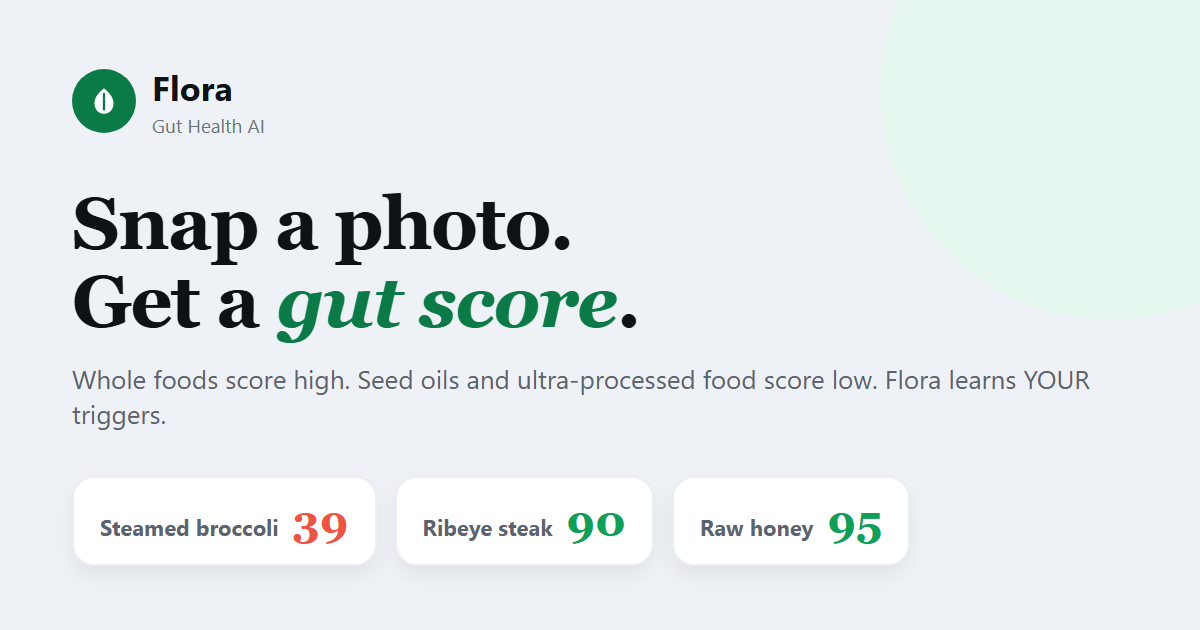
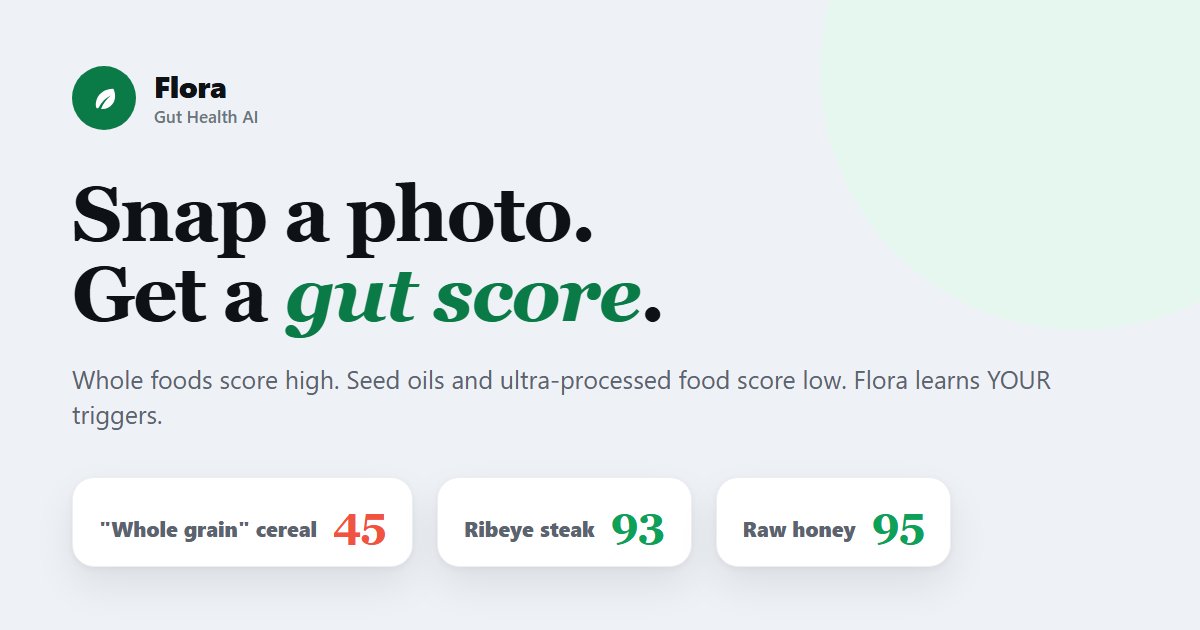
scores after the vegetable ruling: broccoli 68, the hook is now whole-grain cereal 45 vs ribeye 93; share image regenerated from its new source

diff --git a/methodology.html b/methodology.html
@@ -8,12 +8,12 @@
 <meta property="og:type" content="website">
 <meta property="og:site_name" content="Flora">
 <meta property="og:title" content="How Flora scores food — the receipts">
-<meta property="og:description" content="Steamed broccoli 39. Ribeye 93. Here's the model behind the scores — and all 100 of them, unedited.">
+<meta property="og:description" content="&quot;Whole grain&quot; cereal 45. Ribeye 93. Steamed broccoli 68. Here's the model behind the scores — and all 100 of them, unedited.">
 <meta property="og:url" content="https://chrisweaver23.github.io/flora-legal/methodology.html">
 <meta property="og:image" content="https://chrisweaver23.github.io/flora-legal/og.png">
 <meta property="og:image:width" content="1200">
 <meta property="og:image:height" content="630">
-<meta property="og:image:alt" content="Flora scores food 0 to 100: steamed broccoli 39, ribeye steak 93, raw honey 95.">
+<meta property="og:image:alt" content="Flora scores food 0 to 100: whole-grain cereal 45, ribeye steak 93, raw honey 95.">
 <meta name="twitter:card" content="summary_large_image">
 <meta name="twitter:title" content="How Flora scores food — the receipts">
 <meta name="twitter:description" content="The scoring model in plain language, plus all 100 scores from the real engine — including the ones that start arguments.">
@@ -27,6 +27,11 @@
   engine changes, regenerate the scorecard and update this table — NEVER edit
   a number here by hand. Product claims are lifted from the approved listing
   copy (launch/app-store-listing.md).
+  2026-09-15 (build 110): regenerated again after the vegetable ruling
+  (DECISIONS 2026-09-15) — steamed broccoli 39 → 68, kale salad 39 → 68, and
+  the four-foods pass (oatmeal 64, quinoa 62, popcorn 55, protein bar 54).
+  The hero pair became "whole grain" cereal 45 vs ribeye 93: broccoli is an
+  honest Moderate now, not a shock, and the page must never pretend otherwise.
   2026-09-15: table regenerated against the shipping engine (30 of 100 scores
   moved — ribeye 93, energy drink 23, beef liver 99: meal scores cap at 99, the
   century is water alone). Five rows print the engine's own explanation
@@ -141,7 +146,7 @@
   <header class="hero">
     <span class="eyebrow">The receipts · Full methodology</span>
     <h1>Your gut has a score. Here's exactly <em>how it's computed</em>.</h1>
-    <p class="sub">Some of Flora's scores will not be what you were told — steamed broccoli scores 39, ribeye scores 93. This page is the model in plain language, plus all 100 scores from our public scorecard, unedited. Argue with any of them; that's what the page is for.</p>
+    <p class="sub">Some of Flora's scores will not be what you were told — a "whole grain" breakfast cereal scores 45, ribeye scores 93, steamed broccoli 68. This page is the model in plain language, plus all 100 scores from our public scorecard, unedited. Argue with any of them; that's what the page is for.</p>
   </header>
 
   <section class="sect">
@@ -159,14 +164,14 @@
 
   <section class="sect">
     <h2>Where we break from mainstream ratings</h2>
-    <p class="lead">Most food scores grade calories, saturated fat, or plant-versus-animal morality — so they call steak a sin and wave broccoli through. Flora grades digestive reality. That inverts some famous verdicts:</p>
+    <p class="lead">Most food scores grade calories, saturated fat, or plant-versus-animal morality — so they call steak a sin and wave the cereal box through. Flora grades digestive reality. That inverts some famous verdicts:</p>
     <div class="vsboard">
       <div class="vs">
         <div class="fcard low">
-          <div class="emoji">🥦</div>
-          <div class="name">Steamed broccoli</div>
-          <div class="score">39</div>
-          <div class="why">High-FODMAP — cruciferous veg is a frequent source of gas and bloating.</div>
+          <div class="emoji">🌾</div>
+          <div class="name">"Whole grain" cereal</div>
+          <div class="score">45</div>
+          <div class="why">Refined grain extruded into shapes and sweetened — even the wholesome boxes run on processed flour with sugar near the top of the label.</div>
         </div>
         <div class="fcard high">
           <div class="emoji">🥩</div>
@@ -175,7 +180,7 @@
           <div class="why">Ruminant meat is the most bioavailable protein there is — nothing to ferment in your gut.</div>
         </div>
       </div>
-      <p class="foot">If broccoli never bothers you, great — log it, report how you feel, and your personal trigger map reflects that. The 39 is the starting point for a gut Flora hasn't met yet, not a verdict on yours.</p>
+      <p class="foot">And broccoli? An honest 68 — a real gut benefit with a real, dose-driven catch. If a food never bothers you, log it, report how you feel, and your personal trigger map reflects that. Every number here is the starting point for a gut Flora hasn't met yet, not a verdict on yours.</p>
     </div>
   </section>
 
@@ -185,88 +190,89 @@
     <p class="asof">Scores as of September 15, 2026 — regenerated from the engine that ships in the app today. When the engine changes, this table and this date change with it.</p>
     <div class="tablecard">
       <div class="thead"><span>Score</span><span>Food — the engine's own reason</span></div>
-
       <div class="bandhead t">Thriving</div>
       <div class="row"><b class="s t">99</b><div><span class="n">Beef liver</span><span class="w">Red meat: Ruminant meat is the most bioavailable protein there is — iron, zinc and B12 with nothing to ferment in your gut.</span></div></div>
       <div class="row"><b class="s t">95</b><div><span class="n">Raw honey</span><span class="w">Raw honey: Whole-food sweeteners like raw honey come with enzymes and minerals, not just sugar.</span></div></div>
       <div class="row"><b class="s t">93</b><div><span class="n">Ribeye steak</span><span class="w">Red meat: Ruminant meat is the most bioavailable protein there is — iron, zinc and B12 with nothing to ferment in your gut.</span></div></div>
       <div class="row"><b class="s t">90</b><div><span class="n">Acai smoothie bowl</span><span class="w">Whole fruit: Ripe fruit is clean, easily digested energy with polyphenols and minerals — nothing your body has to fight.</span></div></div>
-      <div class="row"><b class="s t">90</b><div><span class="n">Rice cakes</span><span class="w">White rice: White rice is a clean, low-irritant carbohydrate — one of the gentlest starches there is.</span></div></div>
-      <div class="row"><b class="s t">90</b><div><span class="n">Kombucha</span><span class="w">Fermented food: Live cultures support a diverse, resilient microbiome.</span></div></div>
-      <div class="row"><b class="s t">90</b><div><span class="n">Butter</span><span class="w">Traditional animal fats: Stable saturated fats (butter, tallow, ghee) carry vitamins and satisfy without irritating the gut.</span></div></div>
-      <div class="row"><b class="s t">90</b><div><span class="n">Lamb chops</span><span class="w">Red meat: Ruminant meat is the most bioavailable protein there is — iron, zinc and B12 with nothing to ferment in your gut.</span></div></div>
-      <div class="row"><b class="s t">90</b><div><span class="n">Ground beef</span><span class="w">Red meat: Ruminant meat is the most bioavailable protein there is — iron, zinc and B12 with nothing to ferment in your gut.</span></div></div>
-      <div class="row"><b class="s t">90</b><div><span class="n">Pork chop</span><span class="w">Whole pork &amp; game: Unprocessed whole-muscle meat — complete protein with nothing added to ferment.</span></div></div>
-      <div class="row"><b class="s t">90</b><div><span class="n">Watermelon</span><span class="w">Whole fruit: Ripe fruit is clean, easily digested energy with polyphenols and minerals — nothing your body has to fight.</span></div></div>
-      <div class="row"><b class="s t">90</b><div><span class="n">Mango</span><span class="w">Whole fruit: Ripe fruit is clean, easily digested energy with polyphenols and minerals — nothing your body has to fight.</span></div></div>
-      <div class="row"><b class="s t">90</b><div><span class="n">Full-fat greek yogurt</span><span class="w">Whole / raw dairy: Whole and fermented dairy bring probiotics, calcium and fat-soluble vitamins.</span></div></div>
-      <div class="row"><b class="s t">90</b><div><span class="n">Banana</span><span class="w">Whole fruit: Ripe fruit is clean, easily digested energy with polyphenols and minerals — nothing your body has to fight.</span></div></div>
       <div class="row"><b class="s t">90</b><div><span class="n">Apple</span><span class="w">Whole fruit: Ripe fruit is clean, easily digested energy with polyphenols and minerals — nothing your body has to fight.</span></div></div>
-      <div class="row"><b class="s t">90</b><div><span class="n">Blueberries</span><span class="w">Whole fruit: Ripe fruit is clean, easily digested energy with polyphenols and minerals — nothing your body has to fight.</span></div></div>
-      <div class="row"><b class="s t">90</b><div><span class="n">Strawberries</span><span class="w">Whole fruit: Ripe fruit is clean, easily digested energy with polyphenols and minerals — nothing your body has to fight.</span></div></div>
-      <div class="row"><b class="s t">90</b><div><span class="n">Grapes</span><span class="w">Whole fruit: Ripe fruit is clean, easily digested energy with polyphenols and minerals — nothing your body has to fight.</span></div></div>
-      <div class="row"><b class="s t">90</b><div><span class="n">Pineapple</span><span class="w">Whole fruit: Ripe fruit is clean, easily digested energy with polyphenols and minerals — nothing your body has to fight.</span></div></div>
-      <div class="row"><b class="s t">90</b><div><span class="n">Orange</span><span class="w">Whole fruit: Ripe fruit is clean, easily digested energy with polyphenols and minerals — nothing your body has to fight.</span></div></div>
       <div class="row"><b class="s t">90</b><div><span class="n">Avocado</span><span class="w">Whole fruit: Ripe fruit is clean, easily digested energy with polyphenols and minerals — nothing your body has to fight.</span></div></div>
-      <div class="row"><b class="s t">90</b><div><span class="n">Grilled chicken breast</span><span class="w">Poultry: Lean, gut-gentle animal protein.</span></div></div>
-      <div class="row"><b class="s t">90</b><div><span class="n">Rotisserie chicken</span><span class="w">Poultry: Lean, gut-gentle animal protein.</span></div></div>
-      <div class="row"><b class="s t">90</b><div><span class="n">Grilled salmon</span><span class="w">Wild fish &amp; seafood: Omega-3s from fish actively lower inflammation, and seafood protein is gut-gentle.</span></div></div>
-      <div class="row"><b class="s t">90</b><div><span class="n">Sardines</span><span class="w">Wild fish &amp; seafood: Omega-3s from fish actively lower inflammation, and seafood protein is gut-gentle.</span></div></div>
+      <div class="row"><b class="s t">90</b><div><span class="n">Baked potato</span><span class="w">Root vegetables: Roots are gentle, well-tolerated carbohydrates — fuel without the gas.</span></div></div>
+      <div class="row"><b class="s t">90</b><div><span class="n">Banana</span><span class="w">Whole fruit: Ripe fruit is clean, easily digested energy with polyphenols and minerals — nothing your body has to fight.</span></div></div>
+      <div class="row"><b class="s t">90</b><div><span class="n">Blueberries</span><span class="w">Whole fruit: Ripe fruit is clean, easily digested energy with polyphenols and minerals — nothing your body has to fight.</span></div></div>
+      <div class="row"><b class="s t">90</b><div><span class="n">Butter</span><span class="w">Traditional animal fats: Stable saturated fats (butter, tallow, ghee) carry vitamins and satisfy without irritating the gut.</span></div></div>
       <div class="row"><b class="s t">90</b><div><span class="n">Canned tuna</span><span class="w">Wild fish &amp; seafood: Omega-3s from fish actively lower inflammation, and seafood protein is gut-gentle.</span></div></div>
-      <div class="row"><b class="s t">90</b><div><span class="n">Shrimp</span><span class="w">Wild fish &amp; seafood: Omega-3s from fish actively lower inflammation, and seafood protein is gut-gentle.</span></div></div>
-      <div class="row"><b class="s t">90</b><div><span class="n">Scrambled eggs</span><span class="w">Eggs: Whole eggs are a complete, easily digested protein with choline and fat-soluble vitamins.</span></div></div>
-      <div class="row"><b class="s t">90</b><div><span class="n">Hard boiled eggs</span><span class="w">Eggs: Whole eggs are a complete, easily digested protein with choline and fat-soluble vitamins.</span></div></div>
-      <div class="row"><b class="s t">90</b><div><span class="n">Kefir</span><span class="w">Whole / raw dairy: Whole and fermented dairy bring probiotics, calcium and fat-soluble vitamins.</span></div></div>
-      <div class="row"><b class="s t">90</b><div><span class="n">Sauerkraut</span><span class="w">Fermented food: Live cultures support a diverse, resilient microbiome.</span></div></div>
-      <div class="row"><b class="s t">90</b><div><span class="n">Kimchi</span><span class="w">Fermented food: Live cultures support a diverse, resilient microbiome.</span></div></div>
+      <div class="row"><b class="s t">90</b><div><span class="n">Cantaloupe</span><span class="w">Whole fruit: Ripe fruit is clean, easily digested energy with polyphenols and minerals — nothing your body has to fight.</span></div></div>
+      <div class="row"><b class="s t">90</b><div><span class="n">Carrots</span><span class="w">Root vegetables: Roots are gentle, well-tolerated carbohydrates — fuel without the gas.</span></div></div>
       <div class="row"><b class="s t">90</b><div><span class="n">Cheddar cheese</span><span class="w">Whole / raw dairy: Whole and fermented dairy bring probiotics, calcium and fat-soluble vitamins.</span></div></div>
       <div class="row"><b class="s t">90</b><div><span class="n">Cottage cheese</span><span class="w">Whole / raw dairy: Whole and fermented dairy bring probiotics, calcium and fat-soluble vitamins.</span></div></div>
-      <div class="row"><b class="s t">90</b><div><span class="n">Spinach salad with olive oil</span><span class="w">Whole-food fats: Olive oil, avocado and coconut are anti-inflammatory fats your body uses cleanly.</span></div></div>
-      <div class="row"><b class="s t">90</b><div><span class="n">Carrots</span><span class="w">Root vegetables: Roots are gentle, well-tolerated carbohydrates — fuel without the gas.</span></div></div>
-      <div class="row"><b class="s t">90</b><div><span class="n">Sweet potato</span><span class="w">Root vegetables: Roots are gentle, well-tolerated carbohydrates — fuel without the gas.</span></div></div>
-      <div class="row"><b class="s t">90</b><div><span class="n">Baked potato</span><span class="w">Root vegetables: Roots are gentle, well-tolerated carbohydrates — fuel without the gas.</span></div></div>
+      <div class="row"><b class="s t">90</b><div><span class="n">Full-fat greek yogurt</span><span class="w">Whole / raw dairy: Whole and fermented dairy bring probiotics, calcium and fat-soluble vitamins.</span></div></div>
+      <div class="row"><b class="s t">90</b><div><span class="n">Grapes</span><span class="w">Whole fruit: Ripe fruit is clean, easily digested energy with polyphenols and minerals — nothing your body has to fight.</span></div></div>
+      <div class="row"><b class="s t">90</b><div><span class="n">Grilled chicken breast</span><span class="w">Poultry: Lean, gut-gentle animal protein.</span></div></div>
+      <div class="row"><b class="s t">90</b><div><span class="n">Grilled salmon</span><span class="w">Wild fish &amp; seafood: Omega-3s from fish actively lower inflammation, and seafood protein is gut-gentle.</span></div></div>
+      <div class="row"><b class="s t">90</b><div><span class="n">Ground beef</span><span class="w">Red meat: Ruminant meat is the most bioavailable protein there is — iron, zinc and B12 with nothing to ferment in your gut.</span></div></div>
       <div class="row"><b class="s t">90</b><div><span class="n">Guacamole</span><span class="w">Whole-food fats: Olive oil, avocado and coconut are anti-inflammatory fats your body uses cleanly.</span></div></div>
+      <div class="row"><b class="s t">90</b><div><span class="n">Hard boiled eggs</span><span class="w">Eggs: Whole eggs are a complete, easily digested protein with choline and fat-soluble vitamins.</span></div></div>
+      <div class="row"><b class="s t">90</b><div><span class="n">Kefir</span><span class="w">Whole / raw dairy: Whole and fermented dairy bring probiotics, calcium and fat-soluble vitamins.</span></div></div>
+      <div class="row"><b class="s t">90</b><div><span class="n">Kimchi</span><span class="w">Fermented food: Live cultures support a diverse, resilient microbiome.</span></div></div>
+      <div class="row"><b class="s t">90</b><div><span class="n">Kombucha</span><span class="w">Fermented food: Live cultures support a diverse, resilient microbiome.</span></div></div>
+      <div class="row"><b class="s t">90</b><div><span class="n">Lamb chops</span><span class="w">Red meat: Ruminant meat is the most bioavailable protein there is — iron, zinc and B12 with nothing to ferment in your gut.</span></div></div>
+      <div class="row"><b class="s t">90</b><div><span class="n">Mango</span><span class="w">Whole fruit: Ripe fruit is clean, easily digested energy with polyphenols and minerals — nothing your body has to fight.</span></div></div>
+      <div class="row"><b class="s t">90</b><div><span class="n">Orange</span><span class="w">Whole fruit: Ripe fruit is clean, easily digested energy with polyphenols and minerals — nothing your body has to fight.</span></div></div>
+      <div class="row"><b class="s t">90</b><div><span class="n">Pineapple</span><span class="w">Whole fruit: Ripe fruit is clean, easily digested energy with polyphenols and minerals — nothing your body has to fight.</span></div></div>
+      <div class="row"><b class="s t">90</b><div><span class="n">Pork chop</span><span class="w">Whole pork &amp; game: Unprocessed whole-muscle meat — complete protein with nothing added to ferment.</span></div></div>
+      <div class="row"><b class="s t">90</b><div><span class="n">Rice cakes</span><span class="w">White rice: White rice is a clean, low-irritant carbohydrate — one of the gentlest starches there is.</span></div></div>
+      <div class="row"><b class="s t">90</b><div><span class="n">Rotisserie chicken</span><span class="w">Poultry: Lean, gut-gentle animal protein.</span></div></div>
+      <div class="row"><b class="s t">90</b><div><span class="n">Sardines</span><span class="w">Wild fish &amp; seafood: Omega-3s from fish actively lower inflammation, and seafood protein is gut-gentle.</span></div></div>
+      <div class="row"><b class="s t">90</b><div><span class="n">Sauerkraut</span><span class="w">Fermented food: Live cultures support a diverse, resilient microbiome.</span></div></div>
+      <div class="row"><b class="s t">90</b><div><span class="n">Scrambled eggs</span><span class="w">Eggs: Whole eggs are a complete, easily digested protein with choline and fat-soluble vitamins.</span></div></div>
+      <div class="row"><b class="s t">90</b><div><span class="n">Shrimp</span><span class="w">Wild fish &amp; seafood: Omega-3s from fish actively lower inflammation, and seafood protein is gut-gentle.</span></div></div>
+      <div class="row"><b class="s t">90</b><div><span class="n">Spinach salad with olive oil</span><span class="w">Whole-food fats: Olive oil, avocado and coconut are anti-inflammatory fats your body uses cleanly.</span></div></div>
+      <div class="row"><b class="s t">90</b><div><span class="n">Strawberries</span><span class="w">Whole fruit: Ripe fruit is clean, easily digested energy with polyphenols and minerals — nothing your body has to fight.</span></div></div>
+      <div class="row"><b class="s t">90</b><div><span class="n">Sweet potato</span><span class="w">Root vegetables: Roots are gentle, well-tolerated carbohydrates — fuel without the gas.</span></div></div>
+      <div class="row"><b class="s t">90</b><div><span class="n">Watermelon</span><span class="w">Whole fruit: Ripe fruit is clean, easily digested energy with polyphenols and minerals — nothing your body has to fight.</span></div></div>
       <div class="row"><b class="s t">90</b><div><span class="n">White rice</span><span class="w">White rice: White rice is a clean, low-irritant carbohydrate — one of the gentlest starches there is.</span></div></div>
-      <div class="row"><b class="s t">90</b><div><span class="n">Cantaloupe</span><span class="w">Whole fruit: Ripe fruit is clean, easily digested energy with polyphenols and minerals — nothing your body has to fight.</span></div></div>
 
       <div class="bandhead so">Solid</div>
       <div class="row"><b class="s so">88</b><div><span class="n">Coconut water</span><span class="w">Coconut water: Nature’s electrolyte drink — potassium-rich, clean hydration.</span></div></div>
       <div class="row"><b class="s so">85</b><div><span class="n">Green tea</span><span class="w">Tea: Brewed tea — polyphenols and gentle, warm hydration with next to nothing for the gut to fight.</span></div></div>
       <div class="row"><b class="s so">80</b><div><span class="n">Orange juice</span><span class="w">Fresh juice: Squeezed fruit — clean, recognizable energy; only the whole fruit’s fiber is missing.</span></div></div>
       <div class="row"><b class="s so">77</b><div><span class="n">Whole milk</span><span class="w">Milk: Whole milk carries protein and fat-soluble vitamins — fine unless lactose bothers you.</span></div></div>
-      <div class="row"><b class="s so">76</b><div><span class="n">Peanut butter</span><span class="w">Nuts: Nuts are real food — minerals and stable fats — just dense, so portions matter.</span></div></div>
       <div class="row"><b class="s so">76</b><div><span class="n">Almonds</span><span class="w">Nuts: Nuts are real food — minerals and stable fats — just dense, so portions matter.</span></div></div>
+      <div class="row"><b class="s so">76</b><div><span class="n">Peanut butter</span><span class="w">Nuts: Nuts are real food — minerals and stable fats — just dense, so portions matter.</span></div></div>
       <div class="row"><b class="s so">76</b><div><span class="n">Walnuts</span><span class="w">Nuts: Nuts are real food — minerals and stable fats — just dense, so portions matter.</span></div></div>
       <div class="row"><b class="s so">72</b><div><span class="n">Black coffee</span><span class="w">Coffee: Black coffee brings polyphenols and a gentle nudge to gut motility. Its acid can bother a sensitive stomach, so it sits well under tea and cold brew.</span></div></div>
 
       <div class="bandhead m">Moderate</div>
+      <div class="row"><b class="s m">68</b><div><span class="n">Kale salad</span><span class="w">Fermentable vegetable: Fermentable vegetable — fine for most guts, a bloater for sensitive ones at big servings. Cooked beats raw.</span></div></div>
+      <div class="row"><b class="s m">68</b><div><span class="n">Steamed broccoli</span><span class="w">Fermentable vegetable: Fermentable vegetable — fine for most guts, a bloater for sensitive ones at big servings. Cooked beats raw.</span></div></div>
+      <div class="row"><b class="s m">64</b><div><span class="n">Plain oatmeal</span><span class="w">Whole oats: Oats are a whole grain — slower than refined flour, but a bowl of them is still a starch load. Fine in moderation, better with a protein or fruit beside it.</span></div></div>
       <div class="row"><b class="s m">62</b><div><span class="n">California sushi roll</span><span class="w">Refined sugar: 6g of sugar with a sweetener on the label. Sugar like this feeds dysbiotic bacteria and spikes inflammation.</span></div></div>
+      <div class="row"><b class="s m">62</b><div><span class="n">Quinoa</span><span class="w">Pseudo-grain: Quinoa is a seed cooked like a grain — gentler than wheat, still a dense seed carb that lands as starch. Better beside a protein than standing in for one.</span></div></div>
       <div class="row"><b class="s m">61</b><div><span class="n">Beef jerky</span><span class="w">Processed meat: Cured and processed meats carry nitrates and additives that are harder on the gut than fresh meat.</span></div></div>
       <div class="row"><b class="s m">57</b><div><span class="n">Bacon and eggs</span><span class="w">Processed meat: Cured and processed meats carry nitrates and additives that are harder on the gut than fresh meat.</span></div></div>
       <div class="row"><b class="s m">57</b><div><span class="n">Fish and chips</span><span class="w">Deep-fried: Deep-fried in seed oils — inflammatory and heavy on the gut.</span></div></div>
       <div class="row"><b class="s m">55</b><div><span class="n">Blueberry muffin</span><span class="w">Refined grains: Refined, gluten-heavy grains are low in nutrition and a common bloating culprit.</span></div></div>
       <div class="row"><b class="s m">55</b><div><span class="n">Carnitas tacos</span><span class="w">Refined grains: A taco, burrito, wrap or quesadilla rides on a refined-flour tortilla unless you order it without.</span></div></div>
-      <div class="row"><b class="s m">52</b><div><span class="n">Sourdough toast</span><span class="w">A middle-of-the-road snack. The fermented food is what keeps it this high, but big starch load holds it back. A whole food swap would lift it: fruit, yogurt or a few slices of real meat.</span></div></div>
+      <div class="row"><b class="s m">55</b><div><span class="n">Popcorn</span><span class="w">Popcorn: Plain popcorn is a whole grain puffed in air — light and unrefined, still a starch snack. What it is popped in and dusted with decides the rest.</span></div></div>
+      <div class="row"><b class="s m">54</b><div><span class="n">Protein bar</span><span class="w">Protein bar: A protein bar is candy-bar construction — protein isolate, sweeteners and binders in a wrapper. The protein is real, so it edges above neutral; the sweetener line on the label decides the rest.</span></div></div>
       <div class="row"><b class="s m">52</b><div><span class="n">Mac and cheese</span><span class="w">Refined grains: Refined, gluten-heavy grains are low in nutrition and a common bloating culprit.</span></div></div>
-      <div class="row"><b class="s m">51</b><div><span class="n">Oat milk latte</span><span class="w">Plant milk: Oat, soy and rice milks are a processed product: water, starch, added oil and sugars. Real milk or a splash of cream reads cleaner.</span></div></div>
+      <div class="row"><b class="s m">52</b><div><span class="n">Sourdough toast</span><span class="w">Big starch load: Sourdough is a long-fermented wheat loaf — gentler on the gut than plain white bread, but still a slice of starch that lands fast.</span></div></div>
       <div class="row"><b class="s m">51</b><div><span class="n">Deli turkey sandwich</span><span class="w">Refined grains: A burger or sandwich rides on a refined-flour bun unless you order it without.</span></div></div>
       <div class="row"><b class="s m">51</b><div><span class="n">Fried chicken</span><span class="w">Deep-fried: Deep-fried in seed oils — inflammatory and heavy on the gut.</span></div></div>
-      <div class="row"><b class="s m">50</b><div><span class="n">Protein bar</span><span class="w">Flora doesn't know this one yet. Nothing in Flora's food knowledge matches these words, so the number is a neutral placeholder, not a verdict.</span></div></div>
-      <div class="row"><b class="s m">50</b><div><span class="n">Quinoa</span><span class="w">Flora doesn't know this one yet. Nothing in Flora's food knowledge matches these words, so the number is a neutral placeholder, not a verdict.</span></div></div>
-      <div class="row"><b class="s m">50</b><div><span class="n">Plain oatmeal</span><span class="w">Flora doesn't know this one yet. Nothing in Flora's food knowledge matches these words, so the number is a neutral placeholder, not a verdict.</span></div></div>
-      <div class="row"><b class="s m">50</b><div><span class="n">Popcorn</span><span class="w">Flora doesn't know this one yet. Nothing in Flora's food knowledge matches these words, so the number is a neutral placeholder, not a verdict.</span></div></div>
+      <div class="row"><b class="s m">51</b><div><span class="n">Oat milk latte</span><span class="w">Plant milk: Oat, soy and rice milks are a processed product: water, starch, added oil and sugars. Real milk or a splash of cream reads cleaner.</span></div></div>
 
       <div class="bandhead p">Poor</div>
-      <div class="row"><b class="s p">48</b><div><span class="n">Pasta with marinara</span><span class="w">Refined grains: Refined, gluten-heavy grains are low in nutrition and a common bloating culprit.</span></div></div>
       <div class="row"><b class="s p">48</b><div><span class="n">Cheeseburger</span><span class="w">Refined grains: A burger or sandwich rides on a refined-flour bun unless you order it without.</span></div></div>
+      <div class="row"><b class="s p">48</b><div><span class="n">Pasta with marinara</span><span class="w">Refined grains: Refined, gluten-heavy grains are low in nutrition and a common bloating culprit.</span></div></div>
       <div class="row"><b class="s p">46</b><div><span class="n">Hot dog</span><span class="w">Processed meat: Cured and processed meats carry nitrates and additives that are harder on the gut than fresh meat.</span></div></div>
-      <div class="row"><b class="s p">45</b><div><span class="n">Whole grain breakfast cereal</span><span class="w">Refined grains: Refined, gluten-heavy grains are low in nutrition and a common bloating culprit.</span></div></div>
-      <div class="row"><b class="s p">45</b><div><span class="n">Veggie burger</span><span class="w">Refined grains: A burger or sandwich rides on a refined-flour bun unless you order it without.</span></div></div>
-      <div class="row"><b class="s p">45</b><div><span class="n">Chicken nuggets</span><span class="w">Deep-fried: Deep-fried in seed oils — inflammatory and heavy on the gut.</span></div></div>
-      <div class="row"><b class="s p">45</b><div><span class="n">White bread</span><span class="w">Refined grains: Refined, gluten-heavy grains are low in nutrition and a common bloating culprit.</span></div></div>
       <div class="row"><b class="s p">45</b><div><span class="n">Bagel with cream cheese</span><span class="w">Refined grains: Refined, gluten-heavy grains are low in nutrition and a common bloating culprit.</span></div></div>
       <div class="row"><b class="s p">45</b><div><span class="n">Beer</span><span class="w">Alcohol: Alcohol irritates the gut lining and feeds inflammation.</span></div></div>
+      <div class="row"><b class="s p">45</b><div><span class="n">Chicken nuggets</span><span class="w">Deep-fried: Deep-fried in seed oils — inflammatory and heavy on the gut.</span></div></div>
       <div class="row"><b class="s p">45</b><div><span class="n">Red wine</span><span class="w">Alcohol: Alcohol irritates the gut lining and feeds inflammation.</span></div></div>
+      <div class="row"><b class="s p">45</b><div><span class="n">Veggie burger</span><span class="w">Refined grains: A burger or sandwich rides on a refined-flour bun unless you order it without.</span></div></div>
+      <div class="row"><b class="s p">45</b><div><span class="n">White bread</span><span class="w">Refined grains: Refined, gluten-heavy grains are low in nutrition and a common bloating culprit.</span></div></div>
+      <div class="row"><b class="s p">45</b><div><span class="n">Whole grain breakfast cereal</span><span class="w">Refined grains: Refined, gluten-heavy grains are low in nutrition and a common bloating culprit.</span></div></div>
       <div class="row"><b class="s p">44</b><div><span class="n">Almond milk</span><span class="w">Plant milk: Oat, soy and rice milks are a processed product: water, starch, added oil and sugars. Real milk or a splash of cream reads cleaner.</span></div></div>
       <div class="row"><b class="s p">44</b><div><span class="n">Milkshake</span><span class="w">Refined sugar: 72g of sugar with a sweetener on the label. Sugar like this feeds dysbiotic bacteria and spikes inflammation.</span></div></div>
       <div class="row"><b class="s p">44</b><div><span class="n">Pepperoni pizza</span><span class="w">Refined grains: Refined, gluten-heavy grains are low in nutrition and a common bloating culprit.</span></div></div>
@@ -275,24 +281,22 @@
       <div class="row"><b class="s p">43</b><div><span class="n">Glazed donut</span><span class="w">Refined sugar: 12g of sugar with a sweetener on the label. Sugar like this feeds dysbiotic bacteria and spikes inflammation.</span></div></div>
       <div class="row"><b class="s p">41</b><div><span class="n">Pancakes with maple syrup</span><span class="w">Refined grains: Refined, gluten-heavy grains are low in nutrition and a common bloating culprit.</span></div></div>
       <div class="row"><b class="s p">40</b><div><span class="n">Instant flavored oatmeal</span><span class="w">Ultra-processed: Industrial ingredients your gut isn't built to recognize — they disrupt the gut lining and microbiome.</span></div></div>
-      <div class="row"><b class="s p">39</b><div><span class="n">Steamed broccoli</span><span class="w">Gassy plants: Broccoli, cabbage, beans and soy ferment fast in the gut. They are a common source of gas and bloating.</span></div></div>
-      <div class="row"><b class="s p">39</b><div><span class="n">Kale salad</span><span class="w">Gassy plants: Broccoli, cabbage, beans and soy ferment fast in the gut. They are a common source of gas and bloating.</span></div></div>
-      <div class="row"><b class="s p">39</b><div><span class="n">Hummus</span><span class="w">Gassy plants: Broccoli, cabbage, beans and soy ferment fast in the gut. They are a common source of gas and bloating.</span></div></div>
-      <div class="row"><b class="s p">39</b><div><span class="n">Lentil soup</span><span class="w">Gassy plants: Broccoli, cabbage, beans and soy ferment fast in the gut. They are a common source of gas and bloating.</span></div></div>
-      <div class="row"><b class="s p">39</b><div><span class="n">Black beans</span><span class="w">Gassy plants: Broccoli, cabbage, beans and soy ferment fast in the gut. They are a common source of gas and bloating.</span></div></div>
-      <div class="row"><b class="s p">39</b><div><span class="n">Tofu</span><span class="w">Gassy plants: Broccoli, cabbage, beans and soy ferment fast in the gut. They are a common source of gas and bloating.</span></div></div>
-      <div class="row"><b class="s p">39</b><div><span class="n">McDonalds Big Mac</span><span class="w">Fast food: Built from refined grains, seed oils and additives — engineered for craving, not digestion.</span></div></div>
+      <div class="row"><b class="s p">39</b><div><span class="n">Black beans</span><span class="w">Gassy plants: Beans, lentils and soy ferment fast in the gut. They are a common source of gas and bloating.</span></div></div>
       <div class="row"><b class="s p">39</b><div><span class="n">Chocolate chip cookies</span><span class="w">Refined sugar: 28g of sugar with a sweetener on the label. Sugar like this feeds dysbiotic bacteria and spikes inflammation.</span></div></div>
+      <div class="row"><b class="s p">39</b><div><span class="n">Hummus</span><span class="w">Gassy plants: Beans, lentils and soy ferment fast in the gut. They are a common source of gas and bloating.</span></div></div>
+      <div class="row"><b class="s p">39</b><div><span class="n">Lentil soup</span><span class="w">Gassy plants: Beans, lentils and soy ferment fast in the gut. They are a common source of gas and bloating.</span></div></div>
+      <div class="row"><b class="s p">39</b><div><span class="n">McDonalds Big Mac</span><span class="w">Fast food: Built from refined grains, seed oils and additives — engineered for craving, not digestion.</span></div></div>
+      <div class="row"><b class="s p">39</b><div><span class="n">Tofu</span><span class="w">Gassy plants: Beans, lentils and soy ferment fast in the gut. They are a common source of gas and bloating.</span></div></div>
       <div class="row"><b class="s p">36</b><div><span class="n">Tortilla chips</span><span class="w">Deep-fried: Deep-fried in seed oils — inflammatory and heavy on the gut.</span></div></div>
-      <div class="row"><b class="s p">35</b><div><span class="n">Salad with fat-free dressing</span><span class="w">Processed form: The fat stripped out — the part that carried the vitamins and the satiety.</span></div></div>
-      <div class="row"><b class="s p">35</b><div><span class="n">Instant ramen</span><span class="w">Ultra-processed: Industrial ingredients your gut isn't built to recognize — they disrupt the gut lining and microbiome.</span></div></div>
       <div class="row"><b class="s p">35</b><div><span class="n">Cola</span><span class="w">Refined sugar: 39g of sugar with a sweetener on the label. Sugar like this feeds dysbiotic bacteria and spikes inflammation.</span></div></div>
+      <div class="row"><b class="s p">35</b><div><span class="n">Instant ramen</span><span class="w">Ultra-processed: Industrial ingredients your gut isn't built to recognize — they disrupt the gut lining and microbiome.</span></div></div>
+      <div class="row"><b class="s p">35</b><div><span class="n">Salad with fat-free dressing</span><span class="w">Processed form: The fat stripped out — the part that carried the vitamins and the satiety.</span></div></div>
       <div class="row"><b class="s p">32</b><div><span class="n">McDonalds french fries</span><span class="w">Fast food: Built from refined grains, seed oils and additives — engineered for craving, not digestion.</span></div></div>
       <div class="row"><b class="s p">31</b><div><span class="n">Margarine on toast</span><span class="w">Industrial seed oils: Seed oils are oxidation-prone, ultra-refined fats that drive inflammation — the single worst thing for your gut.</span></div></div>
       <div class="row"><b class="s p">23</b><div><span class="n">Energy drink</span><span class="w">Energy drink: An engineered stimulant drink — caffeine, acids and additives, with nothing food-like for a gut to work with.</span></div></div>
       <div class="row"><b class="s p">22</b><div><span class="n">Potato chips</span><span class="w">One food, one verdict: Deep-fried in seed oils — the card's verdict is the meal's score.</span></div></div>
-      <div class="row"><b class="s p">18</b><div><span class="n">Ice cream</span><span class="w">One food, one verdict: Refined sugar — the card's verdict is the meal's score.</span></div></div>
       <div class="row"><b class="s p">18</b><div><span class="n">Gummy bears</span><span class="w">One food, one verdict: Refined sugar — the card's verdict is the meal's score.</span></div></div>
+      <div class="row"><b class="s p">18</b><div><span class="n">Ice cream</span><span class="w">One food, one verdict: Refined sugar — the card's verdict is the meal's score.</span></div></div>
     </div>
   </section>
 

diff --git a/creators.html b/creators.html
@@ -15,7 +15,7 @@
 <meta property="og:image" content="https://chrisweaver23.github.io/flora-legal/og.png">
 <meta property="og:image:width" content="1200">
 <meta property="og:image:height" content="630">
-<meta property="og:image:alt" content="Flora scores food 0 to 100: steamed broccoli 39, ribeye steak 93, raw honey 95.">
+<meta property="og:image:alt" content="Flora scores food 0 to 100: whole-grain cereal 45, ribeye steak 93, raw honey 95.">
 <meta name="twitter:card" content="summary_large_image">
 <meta name="twitter:title" content="Flora for Creators — the founding-creator offer">
 <meta name="twitter:description" content="Flora scores food the way your audience already eats — whole foods high, seed oils low. The founding-creator offer is open.">
@@ -101,8 +101,8 @@
       <span class="chip">Beef liver <b class="g">99</b></span>
       <span class="chip">Butter <b class="g">90</b></span>
       <span class="chip">Raw honey <b class="g">95</b></span>
-      <span class="chip">Steamed broccoli <b class="r">39</b></span>
       <span class="chip">"Whole grain" cereal <b class="a">45</b></span>
+      <span class="chip">Steamed broccoli <b class="a">68</b></span>
       <span class="chip">Margarine <b class="r">31</b></span>
     </div>
     <p>Every number above is a real measurement from the shipping engine (scores as of September 15, 2026) — not marketing copy. That's the content angle: <b>"an app finally scored food the way I've been telling you to eat"</b> — and the scores hold up when your comments section checks them.</p>
@@ -119,7 +119,7 @@
     <h2>First in gets the most.</h2>
     <ol>
       <li><div><b>Flora Plus, free, for life</b><span>Founding creators never pay for Flora. Full access on the house — score your own meals, film real reactions, stress-test the engine on camera.</span></div></li>
-      <li><div><b>"Your audience's 50 foods, scored" — co-branded, yours to give away</b><span>Tell us the 50 foods your audience actually eats and argues about; we score them through the real engine and build the scorecard with your name on it — the broccoli-39 / ribeye-93 reveal, customized to your comment section.</span></div></li>
+      <li><div><b>"Your audience's 50 foods, scored" — co-branded, yours to give away</b><span>Tell us the 50 foods your audience actually eats and argues about; we score them through the real engine and build the scorecard with your name on it — the cereal-45 / ribeye-93 reveal, customized to your comment section.</span></div></li>
       <li><div><b>Revenue share on the annual subscribers you refer — let's talk terms</b><span>Offer codes make referrals trackable per-creator. Cut and structure agreed person-to-person before you post anything, in writing.</span></div></li>
       <li><div><b>A real seat at the table</b><span>Founding creators talk directly to the founder. If the engine scores something wrong for your way of eating, it gets looked at — and you'll see the reasoning either way.</span></div></li>
     </ol>
@@ -129,7 +129,7 @@
   <section>
     <h2>What to post</h2>
     <p>The format that works is the <b>scan-reaction</b>: point the camera at real food, scan it on screen, react to the number. The score does the arguing for you. Three shapes of it:</p>
-    <p><b>1. The broccoli test.</b> Scan the food diet culture worships, then the food it fears — broccoli, then a ribeye — side by side, and react to 39 vs 93 on camera. The comment section finishes the video for you.</p>
+    <p><b>1. The cereal test.</b> Scan the food diet culture worships, then the food it fears — a "whole grain" cereal, then a ribeye — side by side, and react to 45 vs 93 on camera. The comment section finishes the video for you.</p>
     <p><b>2. Scan your actual fridge.</b> Walk your kitchen and scan five staples you already eat and defend — liver, butter, raw honey, sardines. "An app finally agrees with me" is the whole arc.</p>
     <p><b>3. Score my food.</b> Ask followers to name foods in the comments, scan the most-argued ones in the next video. Repeatable weekly, and the requests tell you exactly what your audience wants settled.</p>
   </section>

diff --git a/index.html b/index.html
@@ -19,7 +19,7 @@
 <meta property="og:image" content="https://chrisweaver23.github.io/flora-legal/og.png">
 <meta property="og:image:width" content="1200">
 <meta property="og:image:height" content="630">
-<meta property="og:image:alt" content="Flora scores food 0 to 100: steamed broccoli 39, ribeye steak 93, raw honey 95.">
+<meta property="og:image:alt" content="Flora scores food 0 to 100: whole-grain cereal 45, ribeye steak 93, raw honey 95.">
 <meta name="twitter:card" content="summary_large_image">
 <meta name="twitter:title" content="Flora — snap a photo, get a gut score">
 <meta name="twitter:description" content="Every meal scored 0–100 by a gut-health engine that learns YOUR triggers. Some scores will not be what you were told.">
@@ -151,10 +151,10 @@
       <div class="label">Real scores from Flora's engine · as of September 15, 2026</div>
       <div class="vs">
         <div class="fcard low">
-          <div class="emoji">🥦</div>
-          <div class="name">Steamed broccoli</div>
-          <div class="score">39</div>
-          <div class="why">High-FODMAP — cruciferous veg is a frequent source of gas and bloating.</div>
+          <div class="emoji">🌾</div>
+          <div class="name">"Whole grain" cereal</div>
+          <div class="score">45</div>
+          <div class="why">Refined grain extruded into shapes and sweetened — even the wholesome boxes run on processed flour with sugar near the top of the label.</div>
         </div>
         <div class="fcard high">
           <div class="emoji">🥩</div>
@@ -166,7 +166,7 @@
       <div class="chips">
         <span class="chip">Raw honey <b class="g">95</b></span>
         <span class="chip">Sardines <b class="g">90</b></span>
-        <span class="chip">Whole-grain cereal <b class="a">45</b></span>
+        <span class="chip">Steamed broccoli <b class="a">68</b></span>
         <span class="chip">Veggie burger <b class="a">45</b></span>
         <span class="chip">Big Mac <b class="r">39</b></span>
       </div>
@@ -195,7 +195,7 @@
   <section class="magnet" id="scorecard">
     <span class="mini">Free — The 100 Foods Gut Scorecard</span>
     <h2>100 everyday foods, scored 0–100 by Flora's engine.</h2>
-    <p>Broccoli 39. Ribeye 93. Raw honey 95. "Whole grain" cereal 45. Every score measured by the same engine that scores your meals in the app — with the engine's own one-line reason for each. Some of these will not be what you were told.</p>
+    <p>"Whole grain" cereal 45. Ribeye 93. Raw honey 95. Broccoli 68. Every score measured by the same engine that scores your meals in the app — with the engine's own one-line reason for each. Some of these will not be what you were told.</p>
     <a class="gold" href="mailto:cw23business@gmail.com?subject=Send%20me%20the%20100%20Foods%20Gut%20Scorecard&body=Hi%20—%20send%20me%20the%20scorecard%20PDF%20please.">Email me the scorecard</a>
     <span class="fine">One email, the scorecard by reply, occasional launch updates. Unsubscribe = say the word.</span>
   </section>
